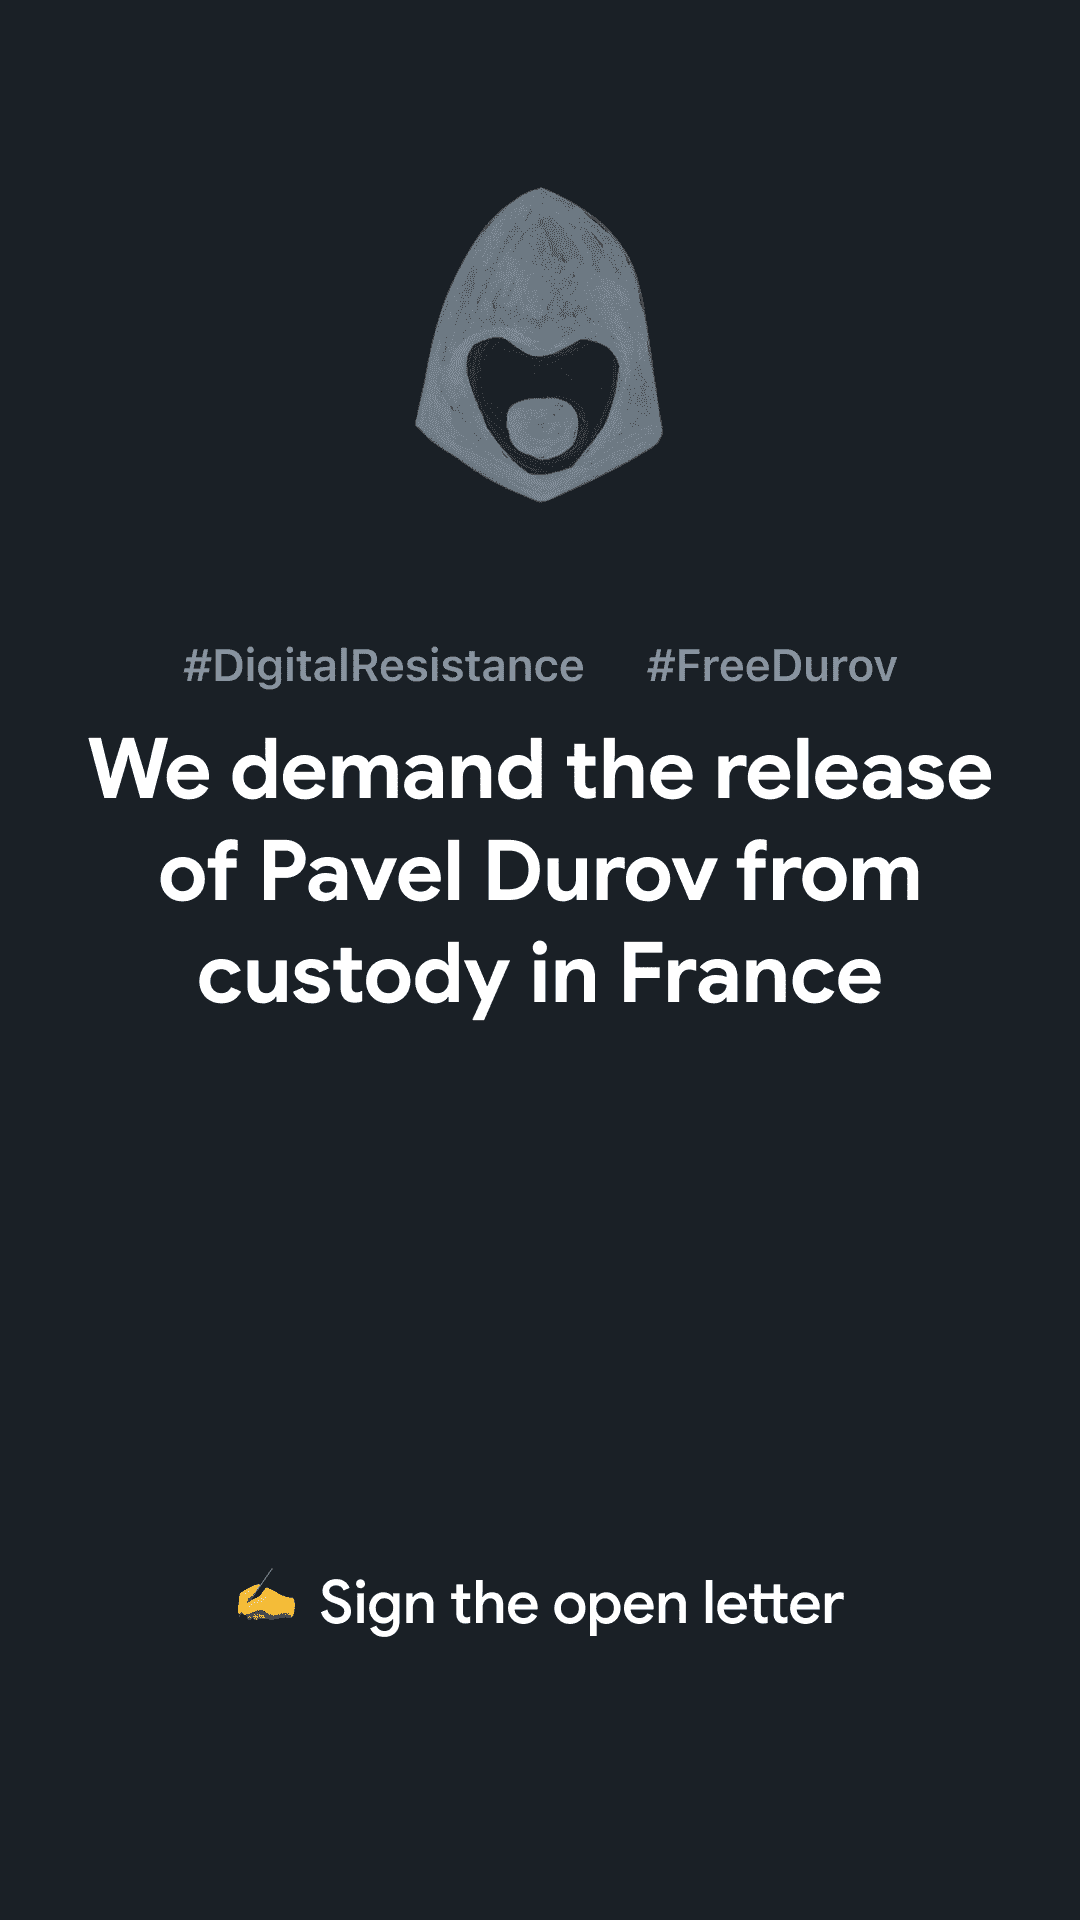
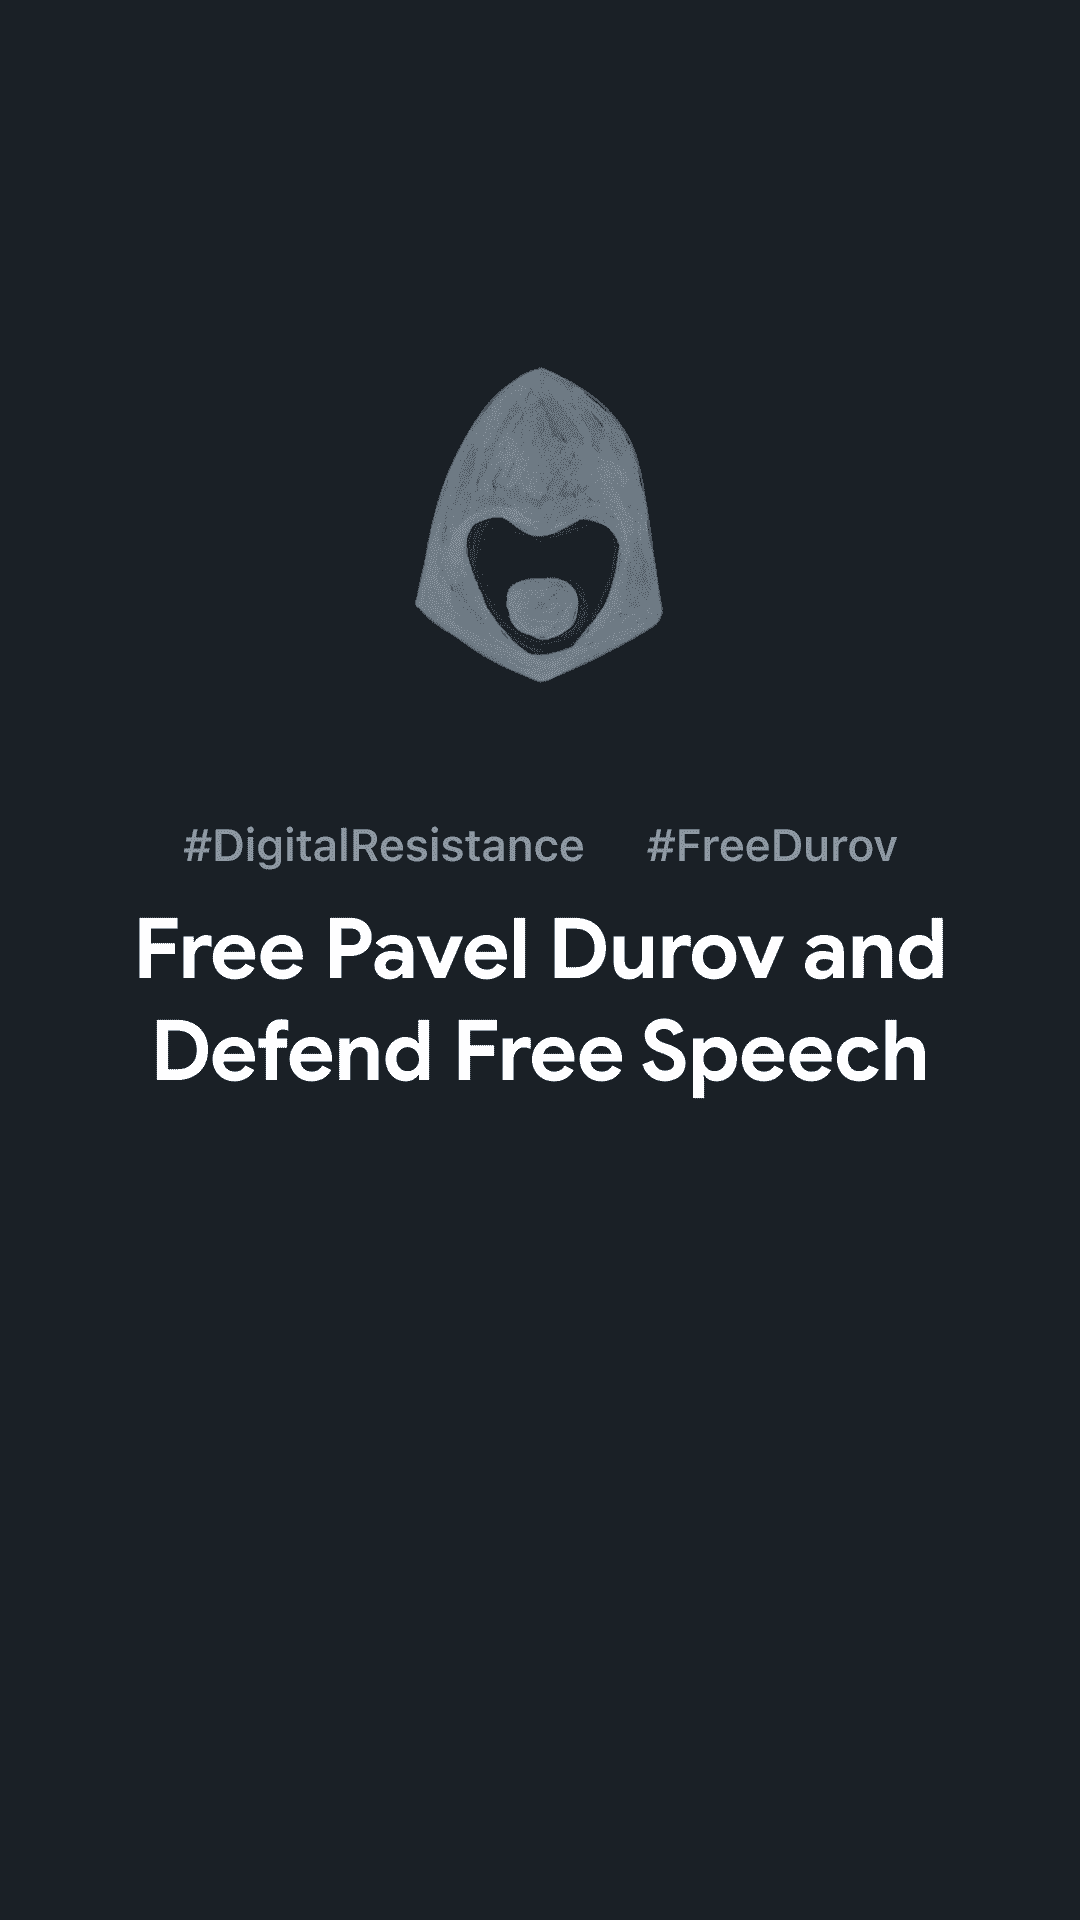
Update story image and widget text

Changed region(s): [[0.0611, 0.0938, 0.9167, 0.5938], [0.2139, 0.8125, 0.7944, 0.875]]

diff --git a/src/app/pages/IndexPage/Share/Share.tsx b/src/app/pages/IndexPage/Share/Share.tsx
@@ -149,7 +149,7 @@ export function Share() {
       {
         widget_link: {
           url: appUrl,
-          name: 'Sign the open letter',
+          name: 'Sign The Open Letter',
         },
       },
     );
